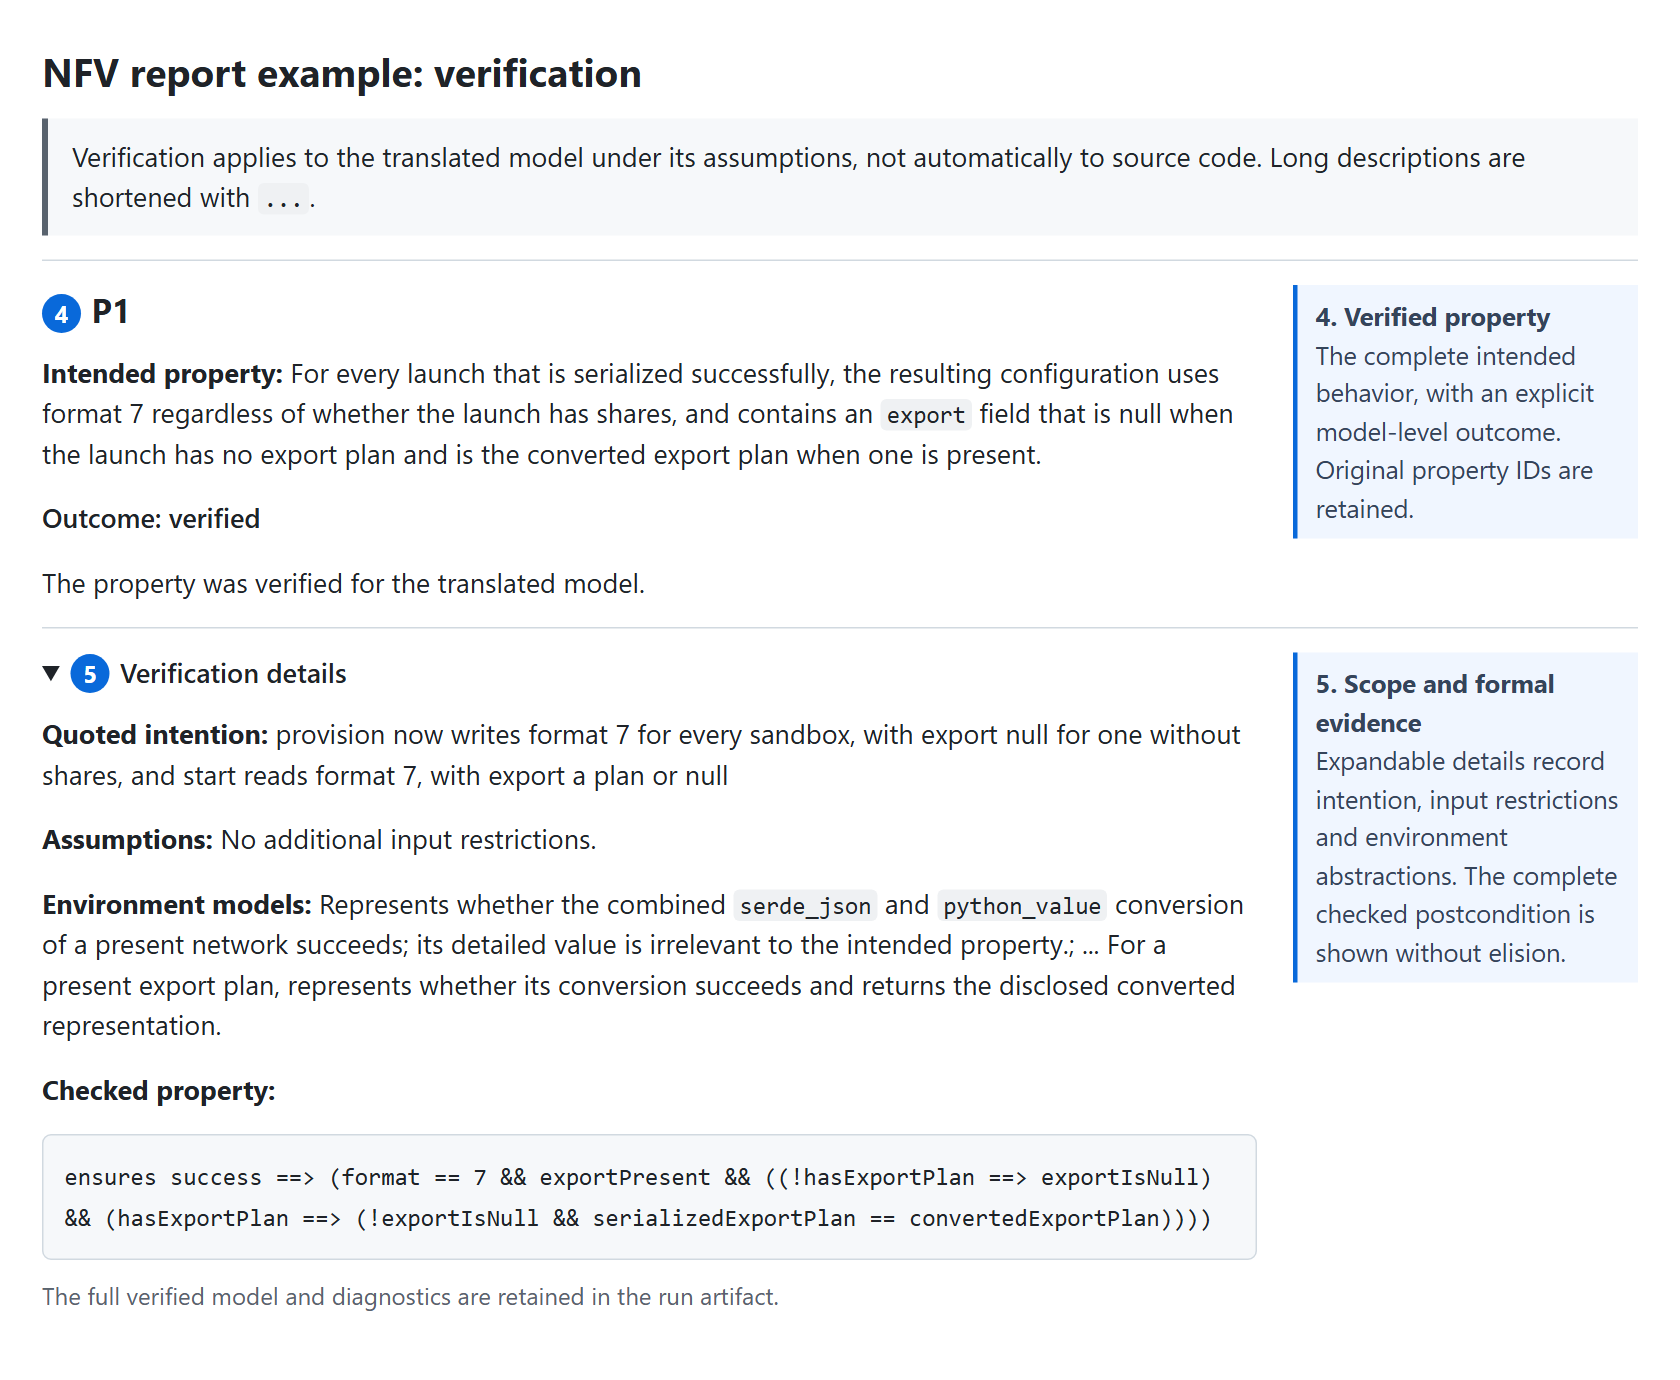
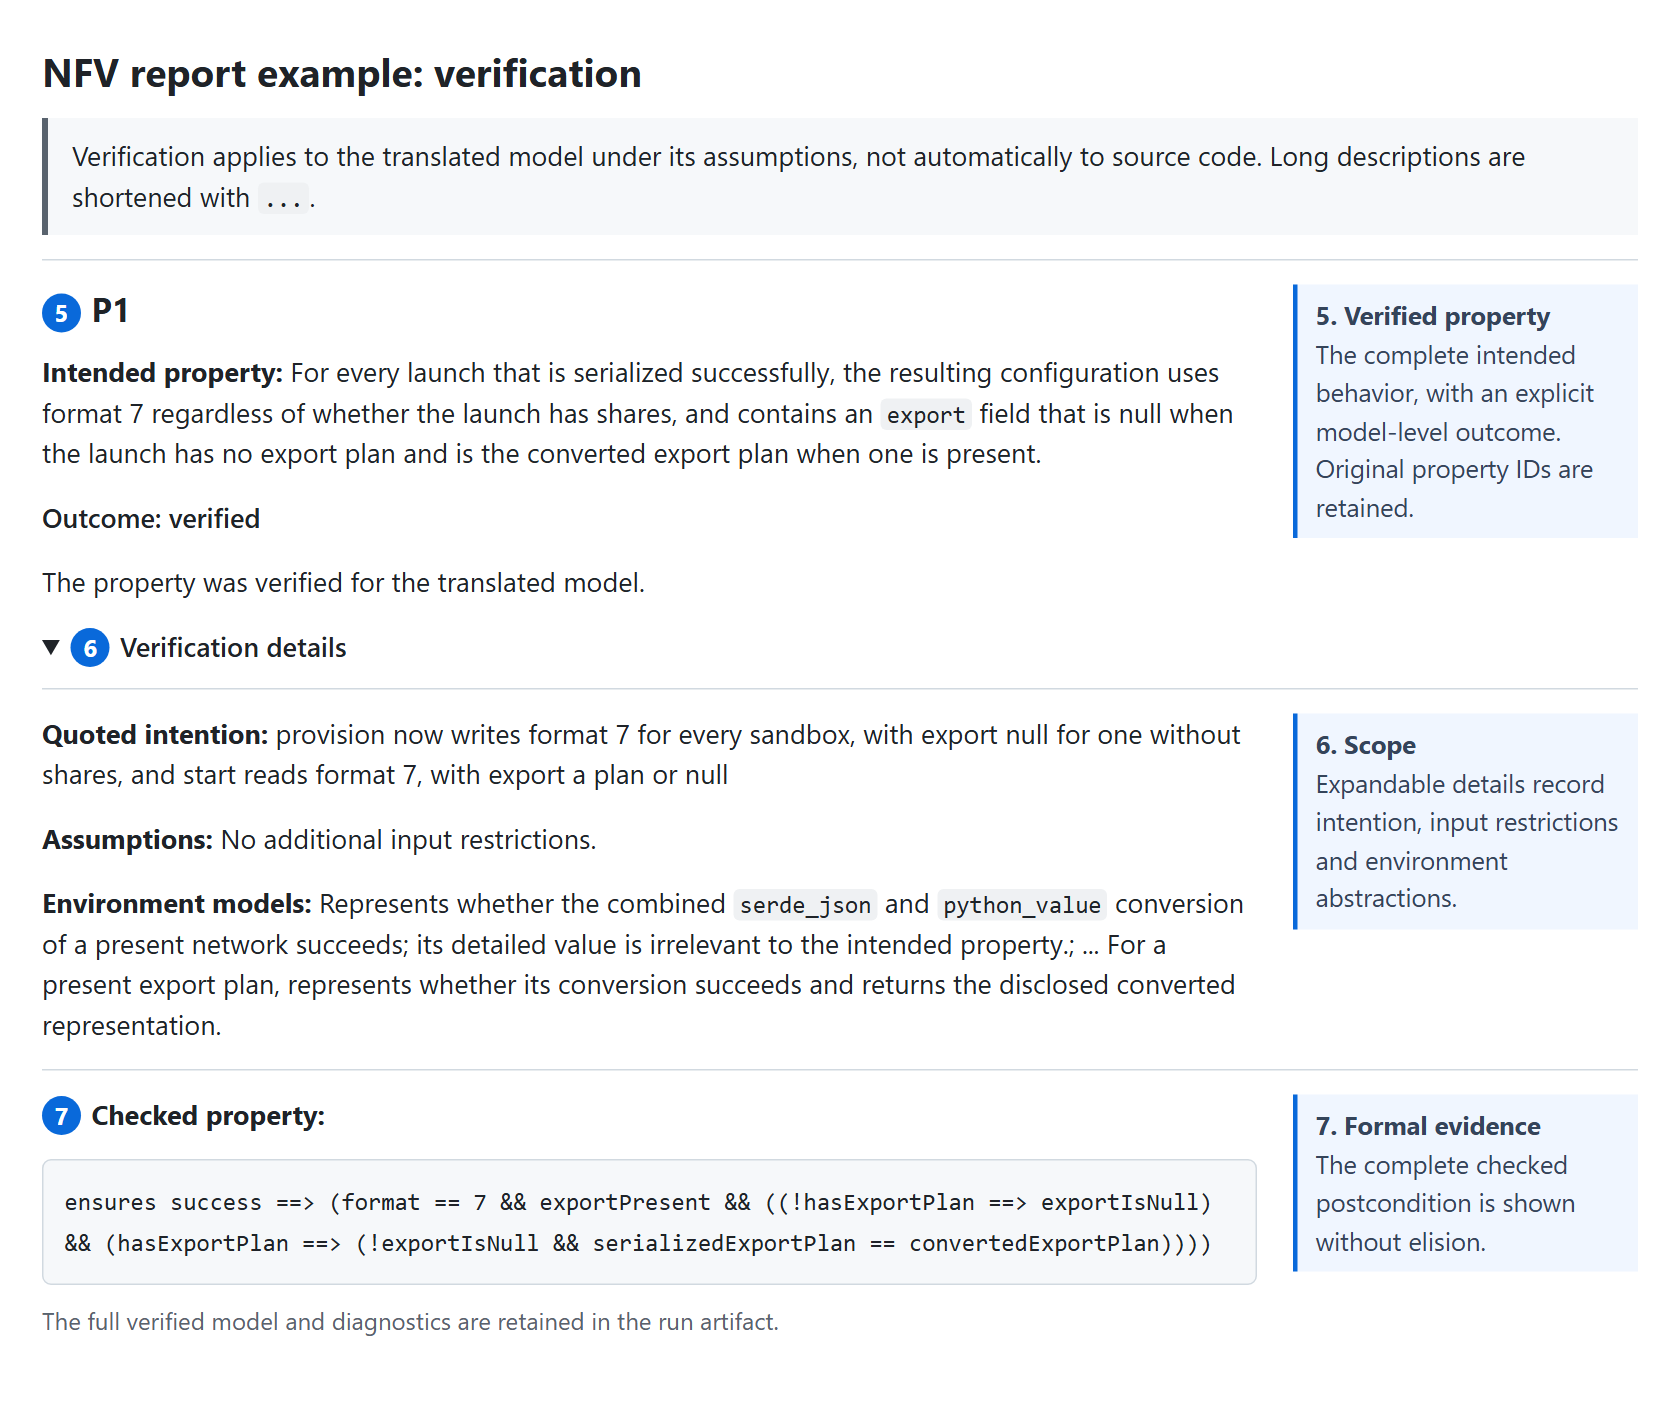
Number Dafny details and verification annotations consecutively

diff --git a/workflow/images/report-examples.html b/workflow/images/report-examples.html
@@ -59,6 +59,7 @@ summary { font-weight: 600; margin-bottom: 14px; }
 </article>
 
 <article id="refutation-dafny">
+<h2><span class="badge">4</span>P4 Dafny model details</h2>
 <details open><summary>Details</summary>
 <details open><summary>Minimized Dafny</summary>
 <p><strong>Postcondition</strong></p>
@@ -95,20 +96,22 @@ summary { font-weight: 600; margin-bottom: 14px; }
 <h1>NFV report example: verification</h1>
 <p class="notice">Verification applies to the translated model under its assumptions, not automatically to source code. Long descriptions are shortened with <code>...</code>.</p>
 <div class="row"><section>
-<h2><span class="badge">4</span>P1</h2>
+<h2><span class="badge">5</span>P1</h2>
 <p><strong>Intended property:</strong> For every launch that is serialized successfully, the resulting configuration uses format 7 regardless of whether the launch has shares, and contains an <code>export</code> field that is null when the launch has no export plan and is the converted export plan when one is present.</p>
 <p class="outcome">Outcome: verified</p>
 <p>The property was verified for the translated model.</p>
-</section><aside><strong>4. Verified property</strong><br>The complete intended behavior, with an explicit model-level outcome. Original property IDs are retained.</aside></div>
+</section><aside><strong>5. Verified property</strong><br>The complete intended behavior, with an explicit model-level outcome. Original property IDs are retained.</aside></div>
+<details open><summary><span class="badge">6</span>Verification details</summary>
 <div class="row"><section>
-<details open><summary><span class="badge">5</span>Verification details</summary>
 <p><strong>Quoted intention:</strong> provision now writes format 7 for every sandbox, with export null for one without shares, and start reads format 7, with export a plan or null</p>
 <p><strong>Assumptions:</strong> No additional input restrictions.</p>
 <p><strong>Environment models:</strong> Represents whether the combined <code>serde_json</code> and <code>python_value</code> conversion of a present network succeeds; its detailed value is irrelevant to the intended property.; ... For a present export plan, represents whether its conversion succeeds and returns the disclosed converted representation.</p>
-<p><strong>Checked property:</strong></p>
+</section><aside><strong>6. Scope</strong><br>Expandable details record intention, input restrictions and environment abstractions.</aside></div>
+<div class="row"><section>
+<p><span class="badge">7</span><strong>Checked property:</strong></p>
 <pre><code>ensures success ==&gt; (format == 7 &amp;&amp; exportPresent &amp;&amp; ((!hasExportPlan ==&gt; exportIsNull) &amp;&amp; (hasExportPlan ==&gt; (!exportIsNull &amp;&amp; serializedExportPlan == convertedExportPlan))))</code></pre>
 <p class="small">The full verified model and diagnostics are retained in the run artifact.</p>
+</section><aside><strong>7. Formal evidence</strong><br>The complete checked postcondition is shown without elision.</aside></div>
 </details>
-</section><aside><strong>5. Scope and formal evidence</strong><br>Expandable details record intention, input restrictions and environment abstractions. The complete checked postcondition is shown without elision.</aside></div>
 </article>
 </html>
